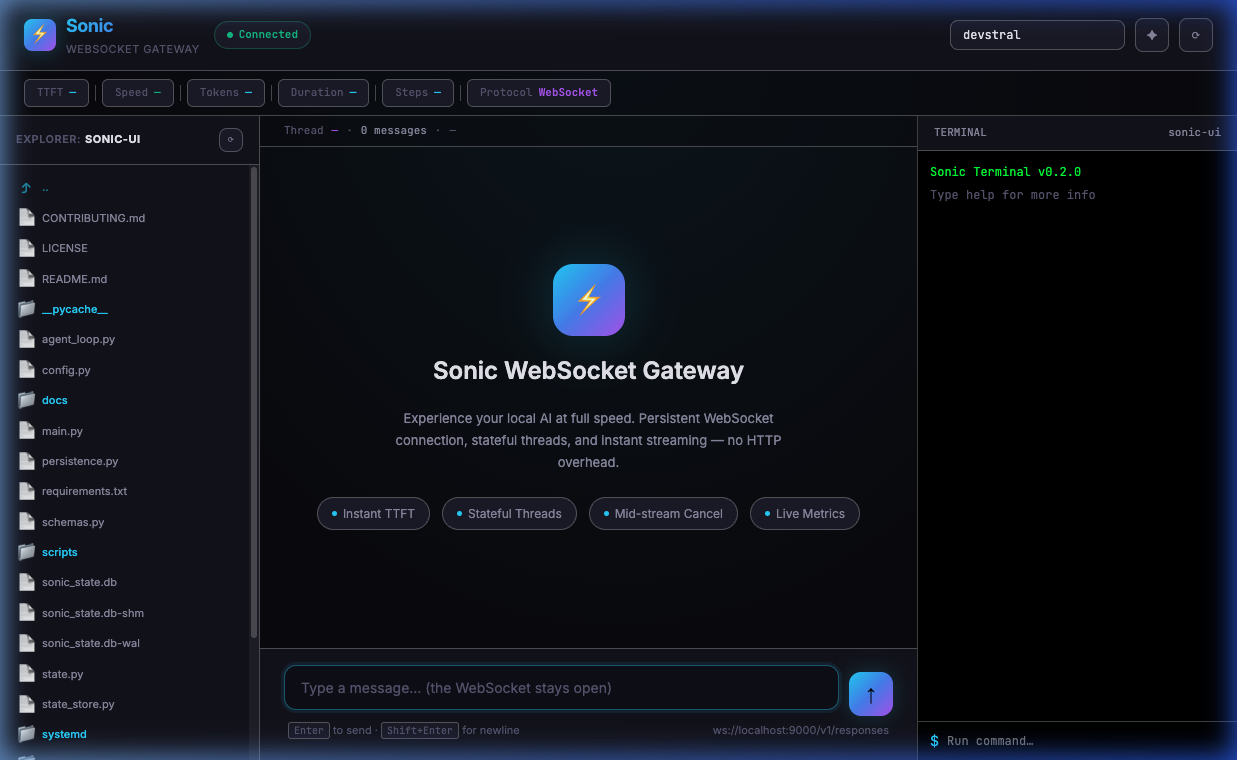
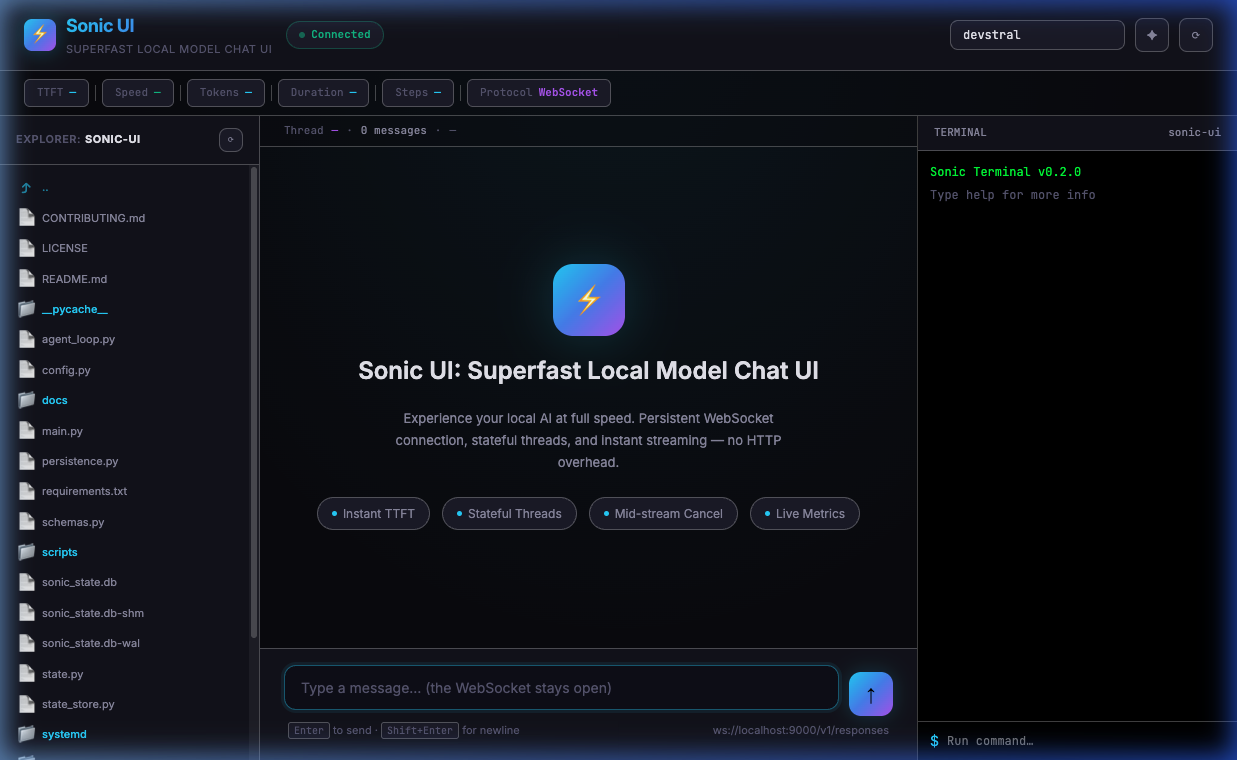
Added Superfast Local UI

Changed region(s): [[0.2765, 0.4539, 0.6758, 0.5145], [0.0614, 0.0303, 0.3072, 0.0908]]

diff --git a/ui/index.html b/ui/index.html
@@ -4,9 +4,9 @@
 <head>
   <meta charset="UTF-8">
   <meta name="viewport" content="width=device-width, initial-scale=1.0">
-  <title>Sonic — WebSocket AI Gateway</title>
+  <title>Sonic UI: Superfast Local Model Chat UI</title>
   <meta name="description"
-    content="Sonic WebSocket Gateway UI for local AI with live streaming and performance metrics">
+    content="Sonic UI: Superfast Local Model Chat UI for local AI with live streaming and performance metrics">
   <link rel="preconnect" href="https://fonts.googleapis.com">
   <link
     href="https://fonts.googleapis.com/css2?family=Inter:wght@300;400;500;600;700&family=JetBrains+Mono:wght@400;500&display=swap"
@@ -210,15 +210,15 @@
 
     .terminal-prompt {
       color: var(--accent-cyan);
-      margin-right: 8px;
+      font-weight: 700;
+      font-family: var(--font-mono);
     }
 
     .terminal-input-wrapper {
-      padding: 8px 12px;
-      background: #000;
+      padding: 16px 16px 20px;
+      background: var(--bg-secondary);
       border-top: 1px solid var(--border);
-      display: flex;
-      align-items: center;
+      flex-shrink: 0;
     }
 
     .terminal-input {
@@ -229,6 +229,7 @@
       color: #fff;
       font-family: var(--font-mono);
       font-size: 12px;
+      padding: 11px 0;
     }
 
     /* ── Header ── */
@@ -927,8 +928,8 @@
         <div class="logo">
           <div class="logo-icon">⚡</div>
           <div>
-            <div class="logo-text">Sonic</div>
-            <div class="logo-sub">WebSocket Gateway</div>
+            <div class="logo-text">Sonic UI</div>
+            <div class="logo-sub">Superfast Local Model Chat UI</div>
           </div>
         </div>
         <div class="connection-badge disconnected" id="connectionBadge">
@@ -1008,7 +1009,7 @@
         <div class="chat-container" id="chatContainer">
           <div class="welcome-screen" id="welcomeScreen">
             <div class="welcome-icon">⚡</div>
-            <div class="welcome-title">Sonic WebSocket Gateway</div>
+            <div class="welcome-title">Sonic UI: Superfast Local Model Chat UI</div>
             <div class="welcome-sub">
               Experience your local AI at full speed. Persistent WebSocket connection, stateful threads, and instant
               streaming — no HTTP overhead.
@@ -1050,8 +1051,18 @@
           <div class="terminal-line" style="color:var(--text-muted)">Type help for more info</div>
         </div>
         <div class="terminal-input-wrapper">
-          <span class="terminal-prompt">$</span>
-          <input type="text" class="terminal-input" id="terminalInput" placeholder="Run command…">
+          <div class="input-row">
+            <div class="input-wrapper"
+              style="display: flex; align-items: center; background: var(--bg-input); border: 1px solid var(--border); border-radius: var(--radius-md); padding: 0 12px; min-height: 44px;">
+              <span class="terminal-prompt">$</span>
+              <input type="text" class="terminal-input" id="terminalInput" placeholder="Run command…"
+                style="margin-left: 8px;">
+            </div>
+          </div>
+          <div class="input-hint">
+            <span>Press <kbd>Enter</kbd> to run</span>
+            <span>CLI v0.2.0</span>
+          </div>
         </div>
       </aside>
     </div>

diff --git a/main.py b/main.py
@@ -48,7 +48,7 @@ class RateLimiter:
 
 
 def create_app(settings: Settings | None = None) -> FastAPI:
-    app = FastAPI(title="Sonic WS Gateway", version="0.2.0")
+    app = FastAPI(title="Sonic UI: Superfast Local Model Chat UI", version="0.2.0")
 
     app.state.settings = settings or Settings.from_env()
     app.state.store = None

diff --git a/README.md b/README.md
@@ -1,10 +1,10 @@
 <div align="center">
 
-# ⚡ Sonic UI
+# ⚡ Sonic UI: Superfast Local Model Chat UI
 
-**A beautiful WebSocket chat interface for [Sonic](https://github.com/mitkox/sonic) — the gateway that makes your local AI feel instant.** Built on the original Sonic codebase created by Mitko Vasilev (mitkox).
+**A new, superfast chat interface for local models that brings the bare necessities of VS Code to your AI workflow.** Built on the high-performance [Sonic](https://github.com/mitkox/sonic) gateway, Sonic UI makes local LLMs feel instant.
 
-Sonic UI brings a premium, real-time chat experience to Sonic and any OpenAI-compatible local backend — **llama.cpp**, **vLLM**, or **Ollama** — with live performance metrics, stateful threads, and streaming that doesn't phone home.
+Sonic UI delivers a premium, real-time experience for **Ollama**, **llama.cpp**, and **vLLM** — featuring an integrated file explorer and terminal without the burden of a bloated UI or massive token costs. Everything stays 100% local.
 
 ![Sonic UI — WebSocket chat with live performance metrics](docs/sonic-ui-screenshot.png)
 
@@ -22,18 +22,22 @@ Sonic UI brings a premium, real-time chat experience to Sonic and any OpenAI-com
 
 ## Why Sonic UI?
 
-The original [mitkox/sonic](https://github.com/mitkox/sonic) delivers genuine speed gains for local AI models and agents through its innovative WebSocket architecture — but it ships without a UI. Sonic UI fixes that.
+Modern AI tools often come with heavy UI bloat or hidden token costs. Sonic UI is designed for developers who want the **bare necessities of a coding environment (Explorer + Terminal)** paired with a superfast, stateful chat interface.
+
+By leveraging Sonic’s innovative WebSocket architecture, you get a genuine speed boost over traditional REST-based interfaces — without the overhead.
 
 You get **all the speed benefits** of the original gateway, plus:
 
 | Feature | What it means |
 |:---|:---|
-| 🖥 **Built-in chat UI** | Open `http://localhost:9000` — no setup, no dependencies |
-| 📊 **Live performance metrics** | TTFT, tokens/sec, total duration — updated in real-time as tokens stream |
-| 🔁 **Stateful threads** | Conversation history lives server-side; follow-ups don't re-send the full context |
-| ⬛ **Mid-stream cancel** | Stop generation instantly with one click |
-| 🔌 **OpenAI REST proxy** | Works with **Cline**, **Continue**, and any OpenAI-compatible tool via `/v1/chat/completions` |
-| 🏠 **100% local** | Nothing leaves your machine — no API keys, no telemetry |
+| ⌨ **VS Code Essentials** | Integrated File Explorer and Terminal for a streamlined dev workflow |
+| 🚀 **Superfast Chat** | Persistent WebSocket connection means zero reconnection latency |
+| 📊 **Live Metrics** | TTFT, tokens/sec, and total duration updated in real-time |
+| 🔁 **Stateful Threads** | History lives server-side; follow-ups only send the *new* message, slashing processing time |
+| 🔌 **No Token Costs** | 100% local inference via Ollama, llama.cpp, or vLLM |
+| ⬛ **Mid-stream Cancel** | Stop generation instantly with one click |
+| 🏠 **Zero Bloat** | A focused, high-performance interface that stays out of your way |
+| 🔌 **OpenAI REST Proxy** | Use it as a backend for Cline, Continue, and other tools via `/v1/chat/completions` |
 
 ### Where the speed comes from
 
@@ -197,7 +201,13 @@ In your tool's settings:
 ### 💬 Chat Interface
 Type a message and watch tokens stream in real time over WebSocket. The connection stays open between messages — no reconnection overhead.
 
-### 📊 Live Metrics Bar
+### � Integrated File Explorer
+Navigate your local project files directly from the sidebar. Just like VS Code, it lets you keep your codebase in view while you chat.
+
+### ⌨ Built-in Terminal
+Run shell commands, manage files, or check logs without leaving the interface. Integrated seamlessly for an all-in-one developer experience.
+
+### �📊 Live Metrics Bar
 Every response displays real-time performance data:
 - **TTFT** — Time to first token (lower is better)
 - **Speed** — Tokens per second during generation
